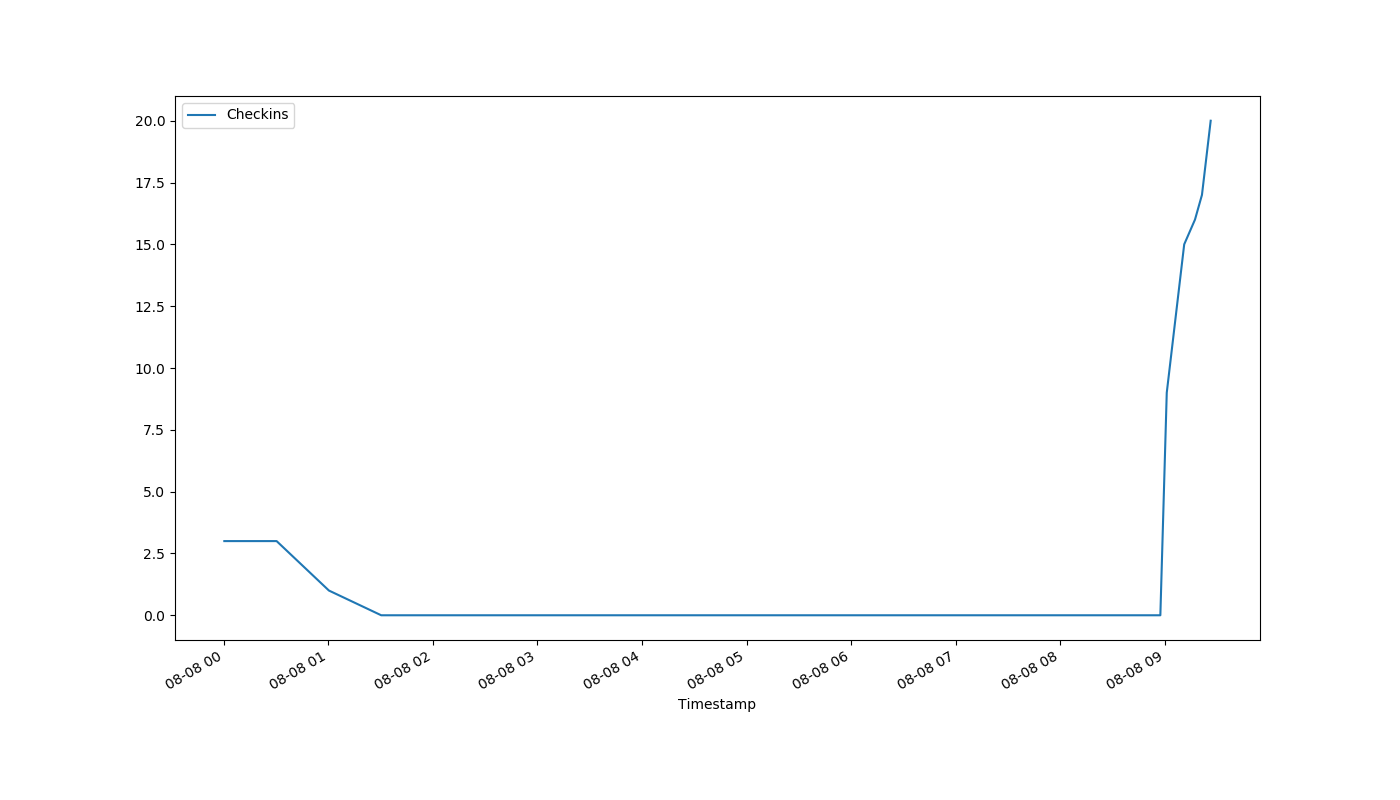
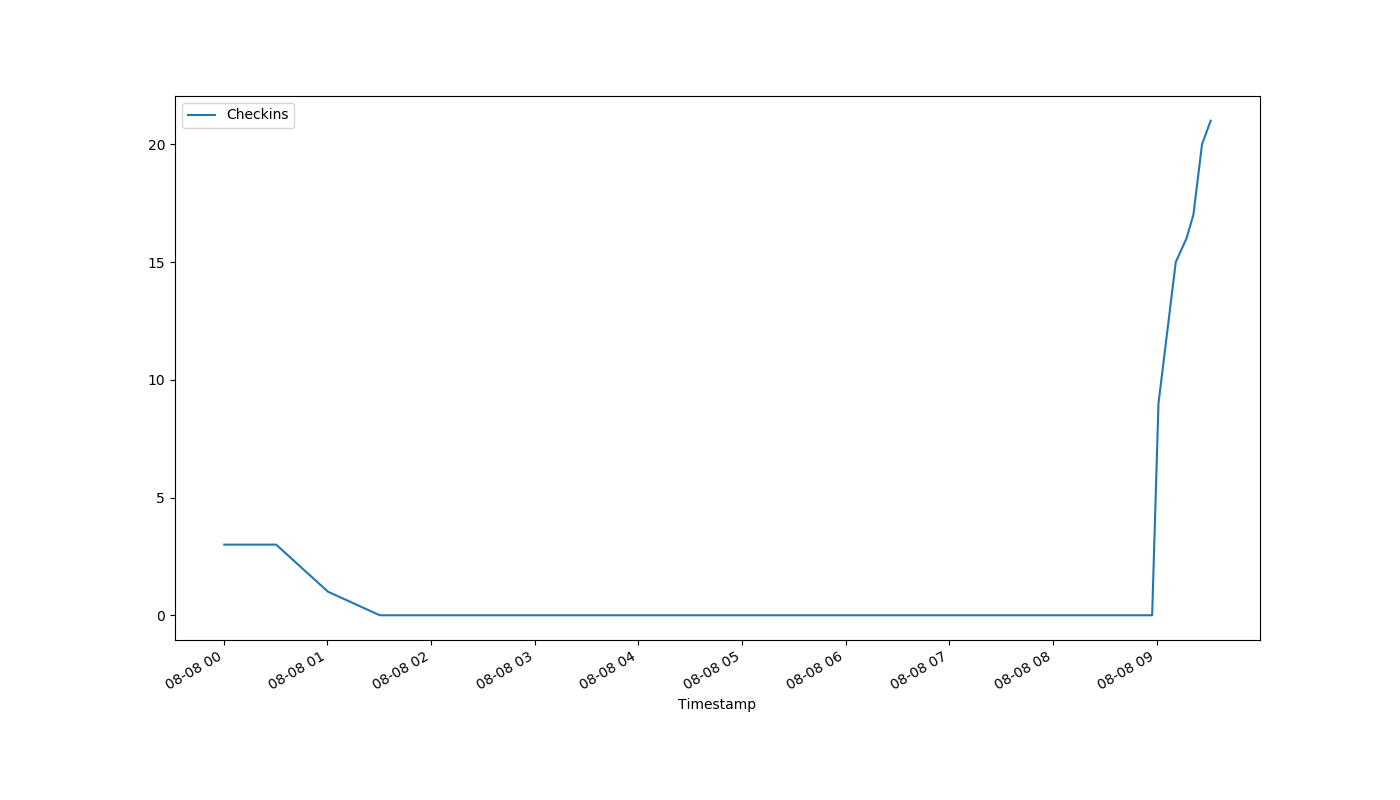
auto-Aug-08-09:33:33

diff --git a/index.html b/index.html
@@ -1,1 +1,1 @@
-<!DOCTYPE html><html><head><meta http-equiv="refresh" content="30"><link rel='stylesheet' href='holmcurrent.css'></head><body><p id='count'>20</p><div id='graph-wrap'><img id='graph' src='holmgraph-Aug-08.png'></div><p id='updated'>Last updated 09:27:05 / 09:26:12</p></body></html>
+<!DOCTYPE html><html><head><meta http-equiv="refresh" content="30"><link rel='stylesheet' href='holmcurrent.css'></head><body><p id='count'>21</p><div id='graph-wrap'><img id='graph' src='holmgraph-Aug-08.png'></div><p id='updated'>Last updated 09:32:05 / 09:31:13</p></body></html>
